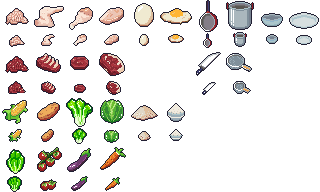
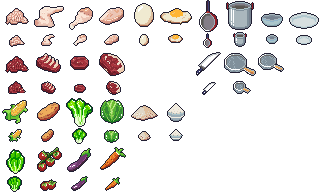
recipes in progress visuals

Changed region(s): [[0.6875, 0.2812, 0.9062, 0.4062], [0.5625, 0.1875, 0.5938, 0.2188]]

diff --git a/logic/game/EquipmentDisplay.cs b/logic/game/EquipmentDisplay.cs
@@ -8,9 +8,13 @@ public partial class EquipmentDisplay : Control
     [Export]
     private Control orderDisplayContainer;
 
+    [Export]
+    private Node currentOrderStepVisualOverlayParent;
+
     private OrderManager orderManager;
     private Equipment equipment;
     private OrderDisplay currentOrderDisplay;
+    private Node currentOrderStepVisualOverlay;
 
     public override void _EnterTree()
     {
@@ -57,12 +61,19 @@ public partial class EquipmentDisplay : Control
         
         currentOrderDisplay = orderDisplay;
         orderDisplay.Reparent(orderDisplayContainer);
+
+        currentOrderStepVisualOverlay = orderDisplay.order.currentStep.equipmentVisualOverlay.Instantiate();
+        currentOrderStepVisualOverlayParent.AddChild(currentOrderStepVisualOverlay);
     }
 
-    public void RefreshCurrentOrderDisplay()
+    private void RefreshCurrentOrderDisplay()
     {
         if (currentOrderDisplay.GetParent() != orderDisplayContainer)
+        {
             currentOrderDisplay = null;
+            if (currentOrderStepVisualOverlay != null)
+                currentOrderStepVisualOverlay.QueueFree();
+        }
     }
     
     public Order GetCurrentDisplayedOrder()

diff --git a/logic/game/OrderStep.cs b/logic/game/OrderStep.cs
@@ -1,8 +1,11 @@
+using Godot;
+
 public class OrderStep(RecipeStep step)
 {
     private RecipeStep recipeStep = step;
     
     public Equipment equipment => recipeStep.equipment;
+    public PackedScene equipmentVisualOverlay => recipeStep.equipmentVisualOverlay;
     
     public bool isStepInProgress { get; private set; }
     public bool isStepFailed => false;

diff --git a/logic/game/OrderManager.cs b/logic/game/OrderManager.cs
@@ -66,6 +66,8 @@ public class OrderManager : AbstractManager
             order.state = OrderState.InProgress;
             eventDispatcher.Dispatch(new OrderStateChangedEvent(order));
         }
+
+        order.currentStep.StartStep();
     }
 
     public bool CanOrderMoveToEquipment(Order order, Equipment equipment)

diff --git a/logic/data/recipes/RecipeStep.cs b/logic/data/recipes/RecipeStep.cs
@@ -9,4 +9,7 @@ public partial class RecipeStep : Resource
     
     [Export]
     public Array<Ingredient> ingredientsRequired { get; private set; }
+
+    [Export]
+    public PackedScene equipmentVisualOverlay;
 }
